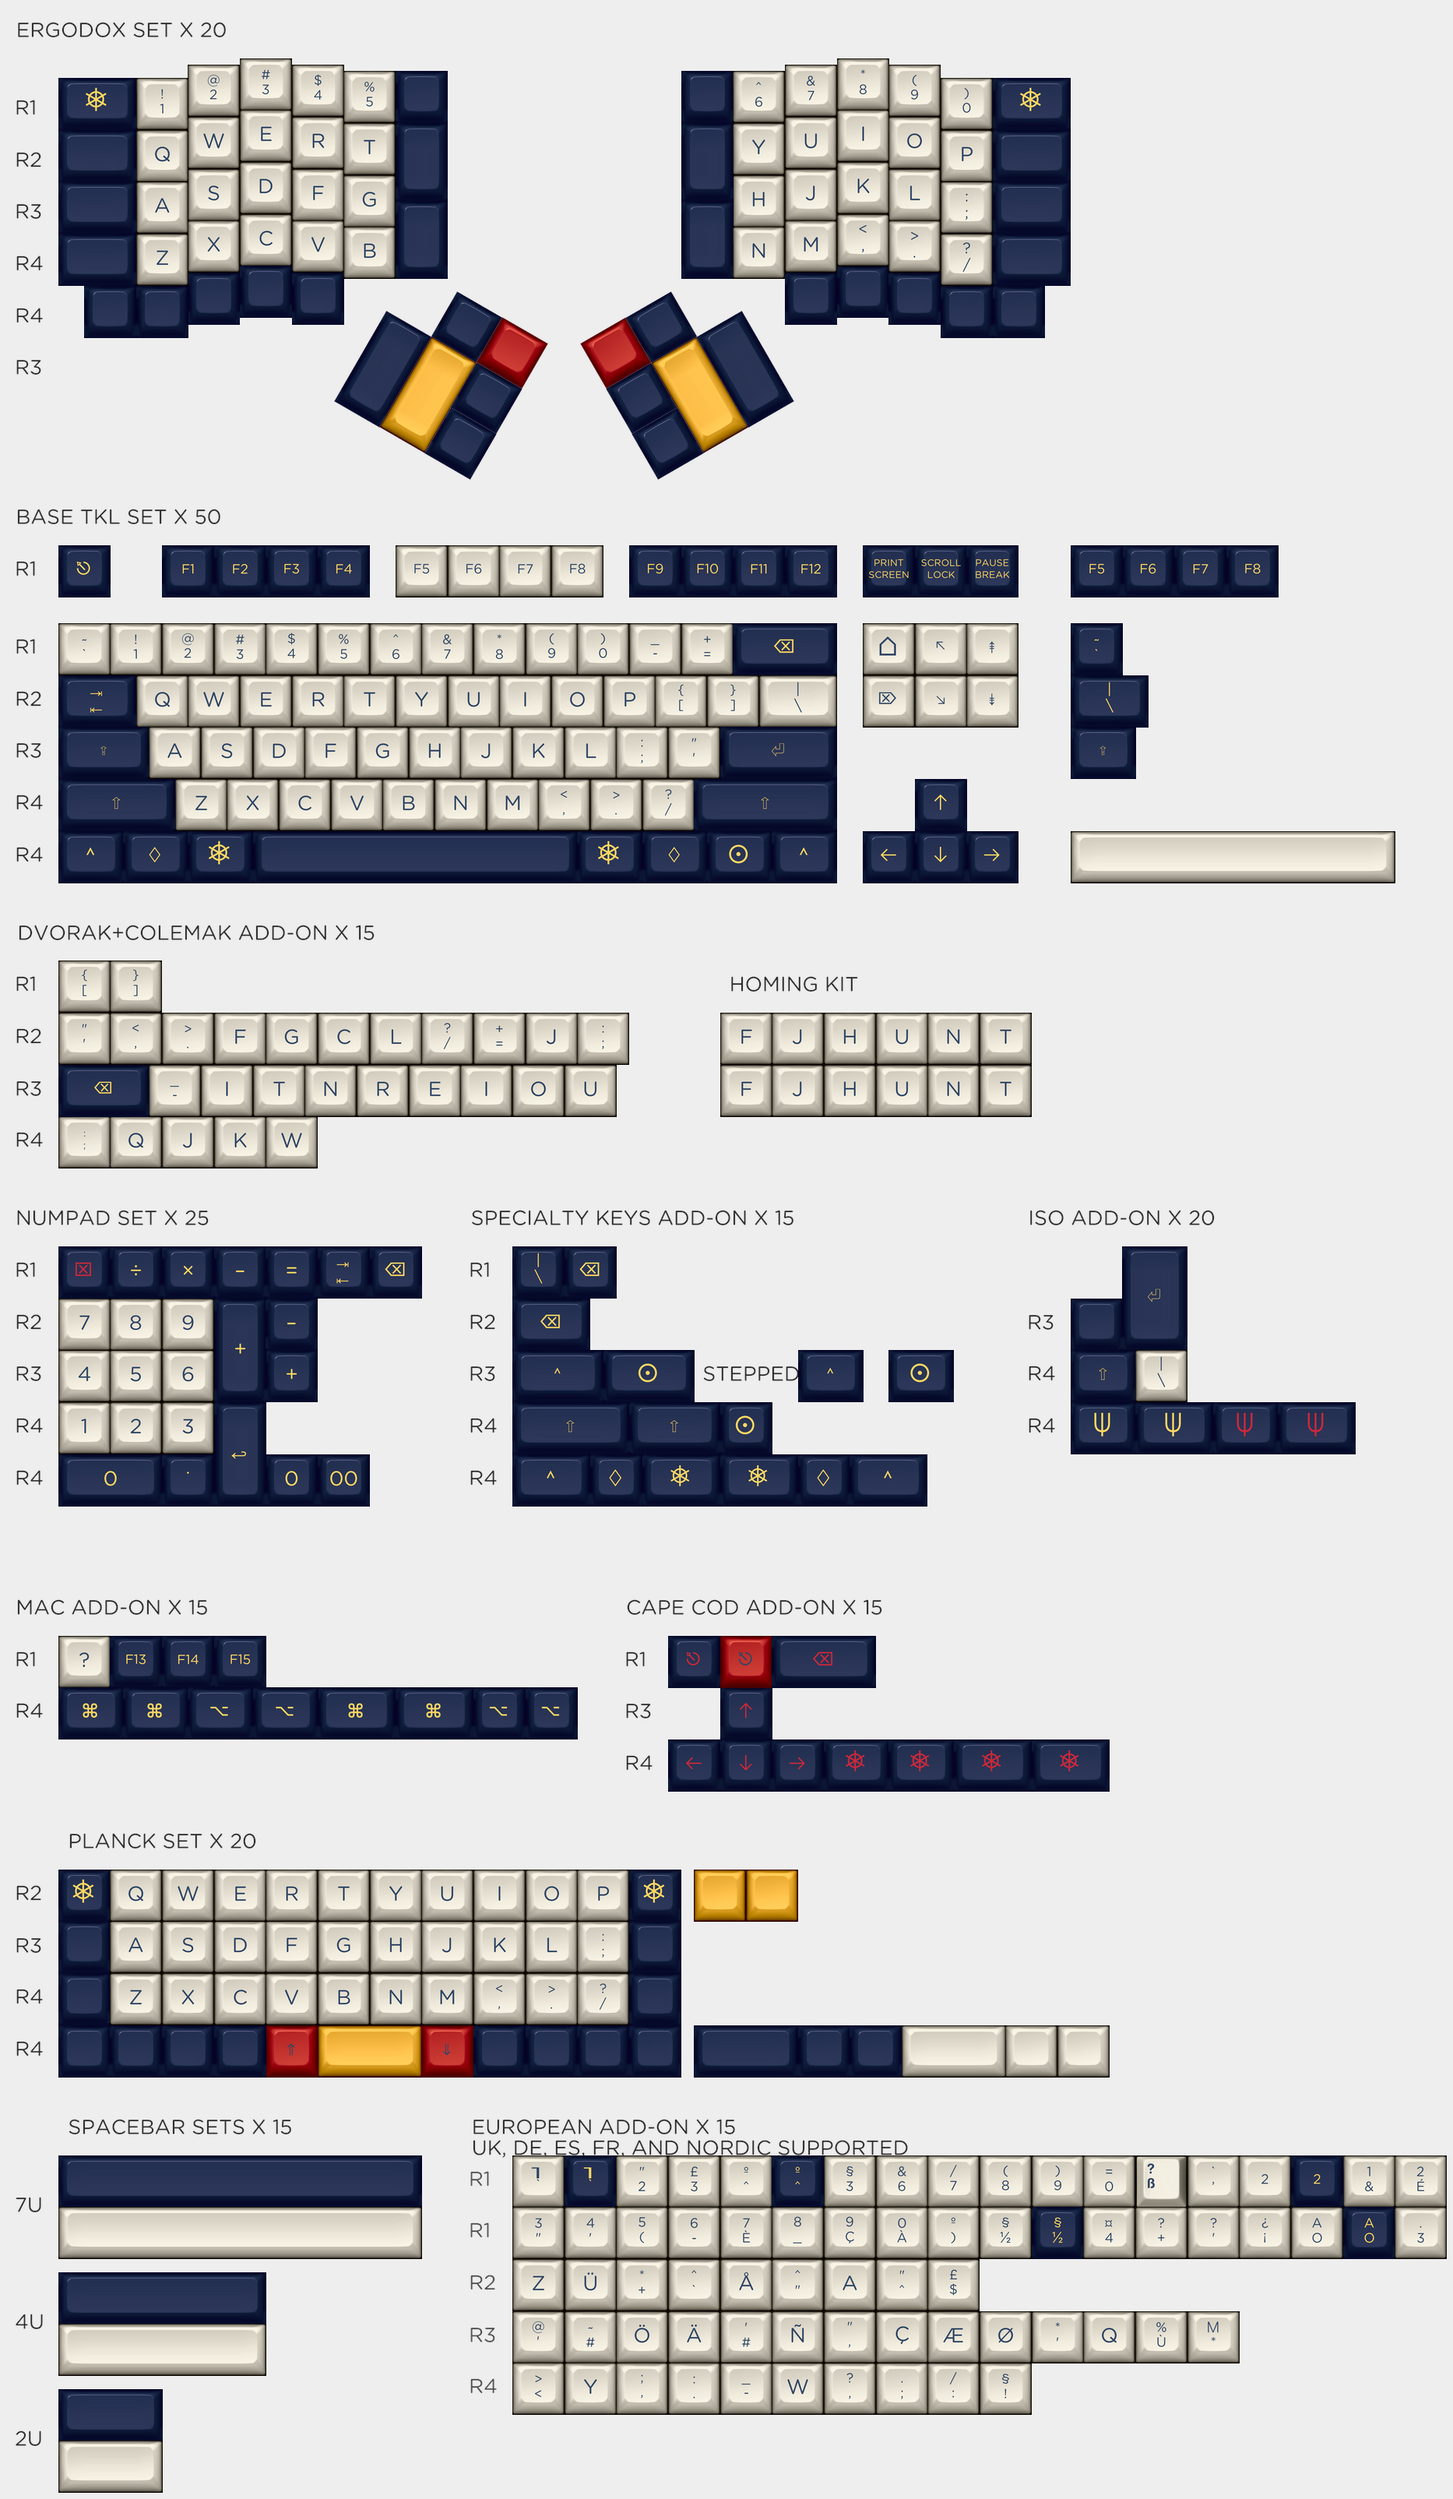
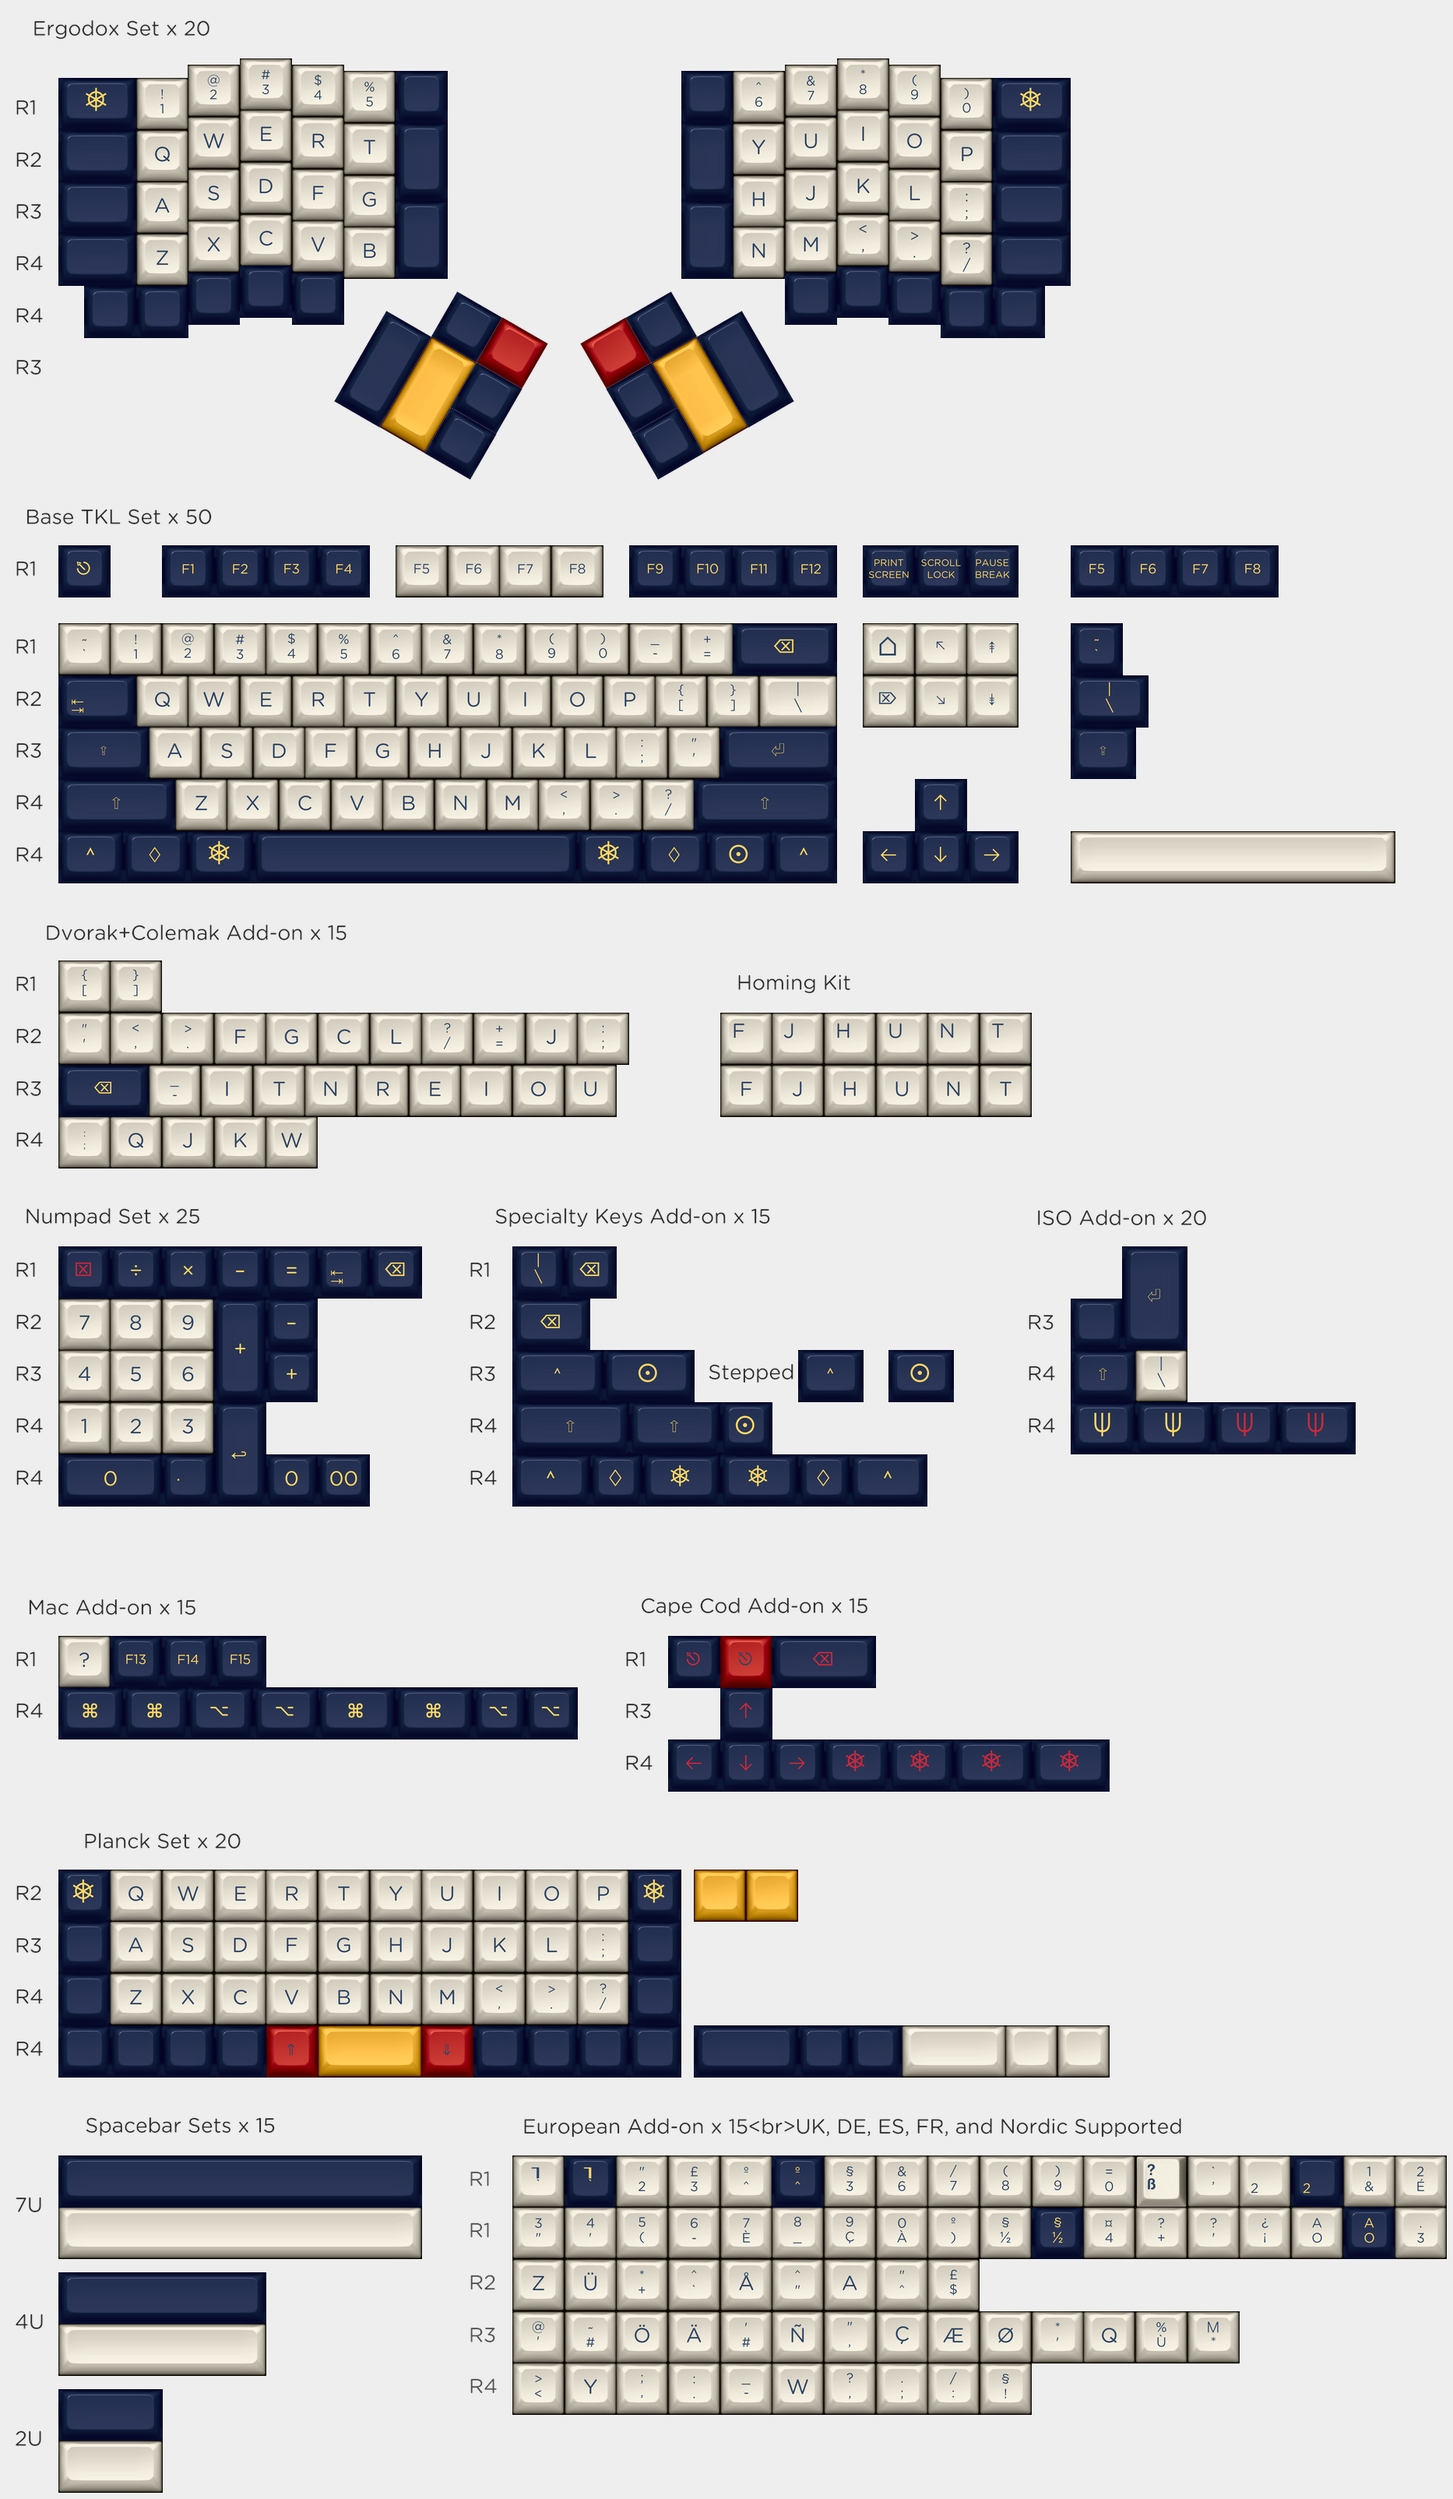
Proper support for multiple legends, better initial canvas scaling, allow rendering without background color

diff --git a/key.py b/key.py
@@ -8,6 +8,8 @@ lab_profile = ImageCms.createProfile('LAB')
 rgb2lab_transform = ImageCms.buildTransformFromOpenProfiles(srgb_profile, lab_profile, 'RGB', 'LAB')
 lab2rgb_transform = ImageCms.buildTransformFromOpenProfiles(lab_profile, srgb_profile, 'LAB', 'RGB')
 
+GMK_LABELS = ('GMK', 'DCS', 'OEM')
+
 # Key and deserialise() modified from https://github.com/jackhumbert/kle-image-creator
 class Key(object):
     __slots__ = ['u', 'base_color', 'x', 'y', 'x2', 'y2', 'width', 'height', 'width2', 'height2', 'color', 'font_color', 'labels', 'align', 'font_size', 'font_size2', 'rotation_angle', 'rotation_x', 'rotation_y', 'profile', 'nub', 'ghost', 'stepped', 'decal']
@@ -164,45 +166,87 @@ class Key(object):
 
     def text_key(self, key_img):
         labels = self.labels
-        labels = [labels[i] for i in range(len(labels)) if len(labels[i]) > 0 and '</i>' not in labels[i] and i not in (4,5)] # ignore blank lines, html, and labels on front (not top) of key
-        if len(labels) < 1:
+        #labels = [labels[i] for i in range(len(labels)) if len(labels[i]) > 0 and '</i>' not in labels[i] and i not in (4,5)] # ignore blank lines, html, and labels on front (not top) of key
+        if len(labels) <= 0:
             return key_img # if blank, exit immediately
-
-        scale_factor = 7
-        min_size = 16
-        line_spacing = 16
-        if self.decal:
-            offset = 0
-            alignment = 'left'
         else:
-            offset = 12 # pixels to shift text upwards to center it in keycap top
-            alignment = 'center'
-        width_limit = key_img.width - 42 # 42 is combined width of keycap sides in base image
+            if self.decal:
+                offset = 0  # pixels to shift text upwards to center it in keycap top
+                scale_factor = 7 # multiply this by the legend size and add to min_size to get font size for that legend
+                min_size = 16
+                line_spacing = 16 # space between lines (only matters for <= 2 labels)
+                width_limit = key_img.width # maximum line width in pixels before automatic line break (Only matters for 1 label)
+            elif self.profile.startswith(GMK_LABELS):
+                offset = 12
+                scale_factor = 9
+                min_size = 12
+                line_spacing = 12
+                width_limit = key_img.width - 55
+            else:
+                offset = 12
+                scale_factor = 7
+                min_size = 16
+                line_spacing = 16
+                width_limit = key_img.width - 42
+                labels = [labels[i].upper() for i in range(len(labels))] # Only uppercase legends on SA keycaps
 
-        if self.profile in ['DCS', 'OEM', 'GMK']:
-            scale_factor = 9
-            min_size = 12
-            width_limit = key_img.width - 55
-            alignment = 'left'
-        else:
-            labels = [labels[i].upper() for i in range(len(labels))] # Only uppercase on SA
+            font = ImageFont.truetype(self.font_path(), int(self.font_size*scale_factor)+min_size)
+            draw = ImageDraw.Draw(key_img)
+            c = ImageColor.getrgb(self.font_color)
+            c = tuple(band + 0x26 for band in c) # Simulates reflectivity 
 
-        gotham = ImageFont.truetype(self.font_path(), int(self.font_size*scale_factor)+min_size)
-        draw = ImageDraw.Draw(key_img)
-        w = max([gotham.getsize(text)[0] for text in labels]) # max of label widths
-        if w > width_limit and not self.decal:
-            labels = [line for label in labels for line in textwrap.wrap(label, width=int(width_limit/(gotham.getsize("L")[0])))]
-            w = max([gotham.getsize(text)[0] for text in labels])
-        h = sum([gotham.getsize(text)[1] for text in labels]) # sum of heights
-        h += line_spacing*(len([text for text in labels])-1)
-        c = ImageColor.getrgb(self.font_color)
-        c = tuple(band + 0x26 for band in c) # Simulates reflectivity
+            if len(labels) <= 2 and labels[0] != '': # If 2 or fewer labels, center accurately depending on profile
+                if self.profile.startswith(GMK_LABELS):
+                    draw.multiline_text((45, 45-offset), '\n'.join(labels), font=font, fill=c, spacing=line_spacing)
+                else:
+                    w = max([font.getsize(text)[0] for text in labels]) # max of label widths
+                    if len(labels) == 1 and w > width_limit and not self.decal: # wrap text only for single labels
+                        labels = [line for label in labels for line in textwrap.wrap(label, width=int(width_limit/(font.getsize('L')[0])))]
+                        w = max([font.getsize(text)[0] for text in labels])
+                    h = sum([font.getsize(text)[1] for text in labels]) # sum of heights
+                    h += line_spacing*(len([text for text in labels])-1)
+                    draw.multiline_text((int((key_img.width-w)/2), int((key_img.height-h)/2 - offset)), '\n'.join(labels), font=font, fill=c, spacing=line_spacing, align='center')
+            else: # Otherwise copy keyboard layout editor legend positions
+                for i in range(len(labels)):
+                    text = labels[i]
+                    if i == 0:
+                        draw.text((45, 45-offset), text, font=font, fill=c)
+                    elif i == 1:
+                        h = font.getsize(text)[1]
+                        draw.text((45, key_img.height-45-h-offset), text, font=font, fill=c)
+                    elif i == 2:
+                        w = font.getsize(text)[0]
+                        draw.text((key_img.width-45-w, 45-offset), text, font=font, fill=c)
+                    elif i == 3:
+                        w = font.getsize(text)[0]
+                        h = font.getsize(text)[1]
+                        draw.text((key_img.width-45-w, key_img.height-45-h-offset), text, font=font, fill=c)
+                    elif i == 6:
+                        h = font.getsize(text)[1]
+                        draw.text((45, (key_img.height-h)/2-offset), text, font=font, fill=c)
+                    elif i == 7:
+                        w = font.getsize(text)[0]
+                        h = font.getsize(text)[1]
+                        draw.text((key_img.width-45-w, (key_img.height-h)/2-offset), text, font=font, fill=c)
+                    elif i == 8:
+                        w = font.getsize(text)[0]
+                        draw.text(((key_img.width-w)/2, 45-offset), text, font=font, fill=c)
+                    elif i == 9:
+                        w = font.getsize(text)[0]
+                        h = font.getsize(text)[1]
+                        draw.text(((key_img.width-w)/2, (key_img.height-h)/2-offset), text, font=font, fill=c)
+                    elif i == 10:
+                        w = font.getsize(text)[0]
+                        h = font.getsize(text)[1]
+                        draw.text(((key_img.width-w)/2, key_img.height-45-h-offset), text, font=font, fill=c)
+                    # elif i == 9:
+                    #     draw.text()
+                    # elif i == 10:
+                    #     draw.text()
+                    # elif i = 11:
+                    #     draw.text()
 
-        if self.profile in ['DCS', 'OEM', 'GMK']:
-            draw.multiline_text((45, 30), '\n'.join(labels), font=gotham, fill=c, spacing=line_spacing, align=alignment)
-        else:
-            draw.multiline_text((int((key_img.width-w)/2), int((key_img.height-h)/2 - offset)), '\n'.join(labels), font=gotham, fill=c, spacing=line_spacing, align=alignment)
-        return key_img 
+            return key_img 
 
     def render(self):
         self.base_color = self.get_base_color()

diff --git a/kle_render.py b/kle_render.py
@@ -15,7 +15,8 @@ def render_keyboard(data):
         c = ImageColor.getrgb(data['meta']['backcolor'])
     else:
         c = ImageColor.getrgb('#000000')
-    keyboard = Image.new('RGBA', (len(keys)*int(round(60/scale)),len(keys)*int(round(60/scale))), color=c)
+    s = (160 * 0.97**len(keys) + 40 + 2*border)*len(keys)
+    keyboard = Image.new('RGBA', (int(round(s/scale)),int(round(s/scale))), color=c)
     max_x = max_y = 0
 
     pool = ThreadPool()
@@ -34,6 +35,9 @@ def render_key(key):
     key_img = key_img.resize(tuple(int(round(i/scale)) for i in key_img.size), resample=Image.LANCZOS) # Lanczos is high quality downsampling algorithm
     keyboard.paste(key_img, (location[0], location[1]), mask=key_img)
 
+def html_to_unicode(html): # unescaped html input
+    return html
+
 def deserialise(rows): # where rows is a dictionary version of Keyboard Layout Editor's JSON Output
     # Initialize with defaults
     current = Key()
@@ -47,7 +51,7 @@ def deserialise(rows): # where rows is a dictionary version of Keyboard Layout E
                     newKey = copy.copy(current);
                     newKey.width2 = current.width if newKey.width2 == 0.0 else current.width2
                     newKey.height2 = current.height if newKey.height2 == 0.0 else current.height2
-                    newKey.labels = [html.unescape(text) for text in key.replace('<br>', '\n').replace('<br/>', '\n').split('\n')]
+                    newKey.labels = [html_to_unicode(text) for text in html.unescape(key).split('\n')]
                     keys.append(newKey)
 
                     # Set up for the next key
@@ -74,7 +78,9 @@ def deserialise(rows): # where rows is a dictionary version of Keyboard Layout E
                     if 'c' in key:
                         current.color = key['c'].replace(';', '')
                     if 't' in key:
-                        current.font_color = key['t'].replace(';', '')
+                        current.font_color = key['t'].replace(';', '').replace('\n', '')
+                        if '#' in current.font_color[1:]: # hack to prevent multiple font colors from causing crash
+                            current.font_color = current.font_color[:4]
                     if 'x' in key:
                         current.x += float(key['x'])
                     if 'y' in key:
@@ -101,7 +107,7 @@ def deserialise(rows): # where rows is a dictionary version of Keyboard Layout E
                         current.decal = key['d']
             # End of the row
             current.y += 1.0;
-        elif 'backcolor' in row:
+        elif 'backcolor' in row and len(row['backcolor']) > 0:
             meta['backcolor'] = row['backcolor'].replace(';', '')
         current.x = 0 #current.rotation_x
     return {'meta': meta, 'keys': keys}

diff --git a/README.md b/README.md
@@ -3,6 +3,12 @@ Get prettier images of Keyboard Layout Editor designs
 
 This project uses Pillow (Python Image Library), Flask, and Flask-RESTPlus to serve up 'renders' of keyboards from their keyboard layout editor JSON, by stretching, tinting, and tiling base images of a 1u keycap.
 
+### TODO:
+- Implement legend alignment ("a" values)
+- Convert Character Picker glyphs to Unicode
+- Add support for front-printed legends
+- Add support for L-shaped keys
+
 Check it out at [kle-render.herokuapp.com](https://kle-render.herokuapp.com/)
 
 ![Sample Render](https://raw.githubusercontent.com/CQCumbers/kle_render/master/render_output.png)
